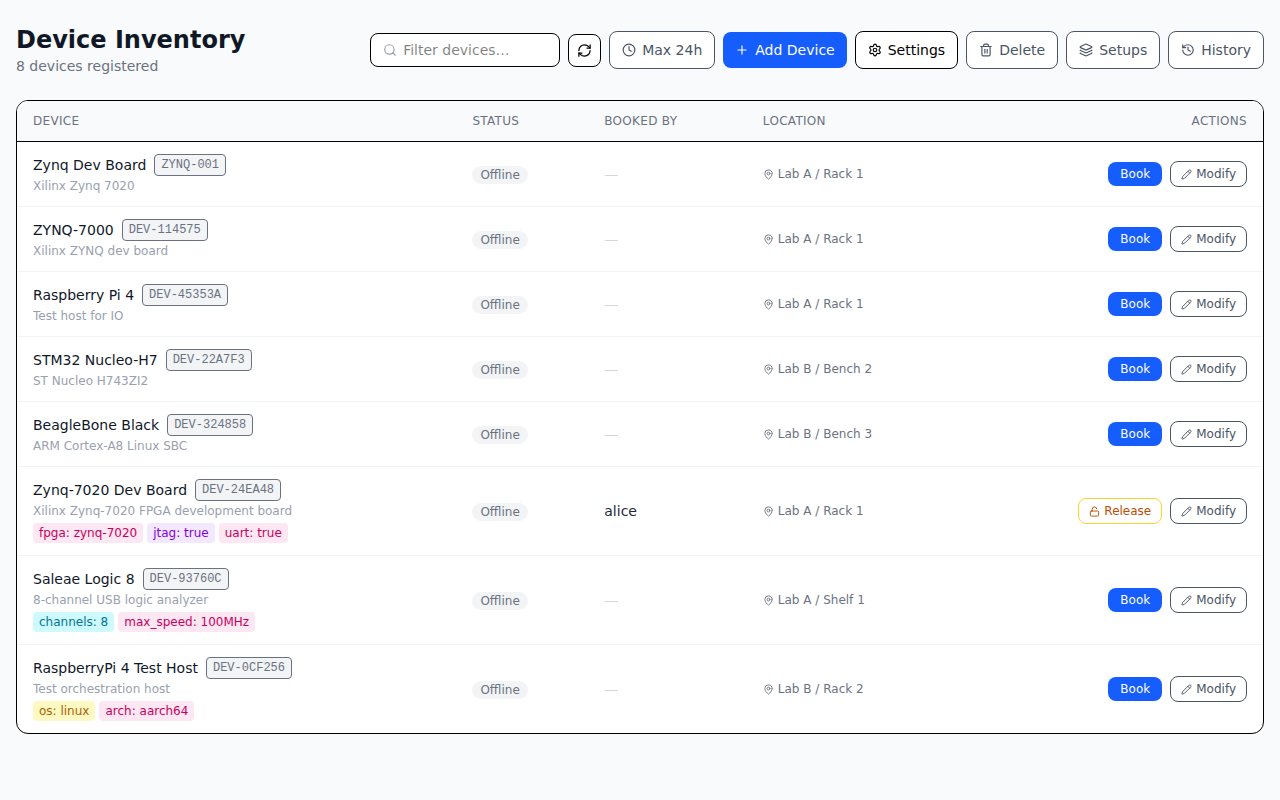
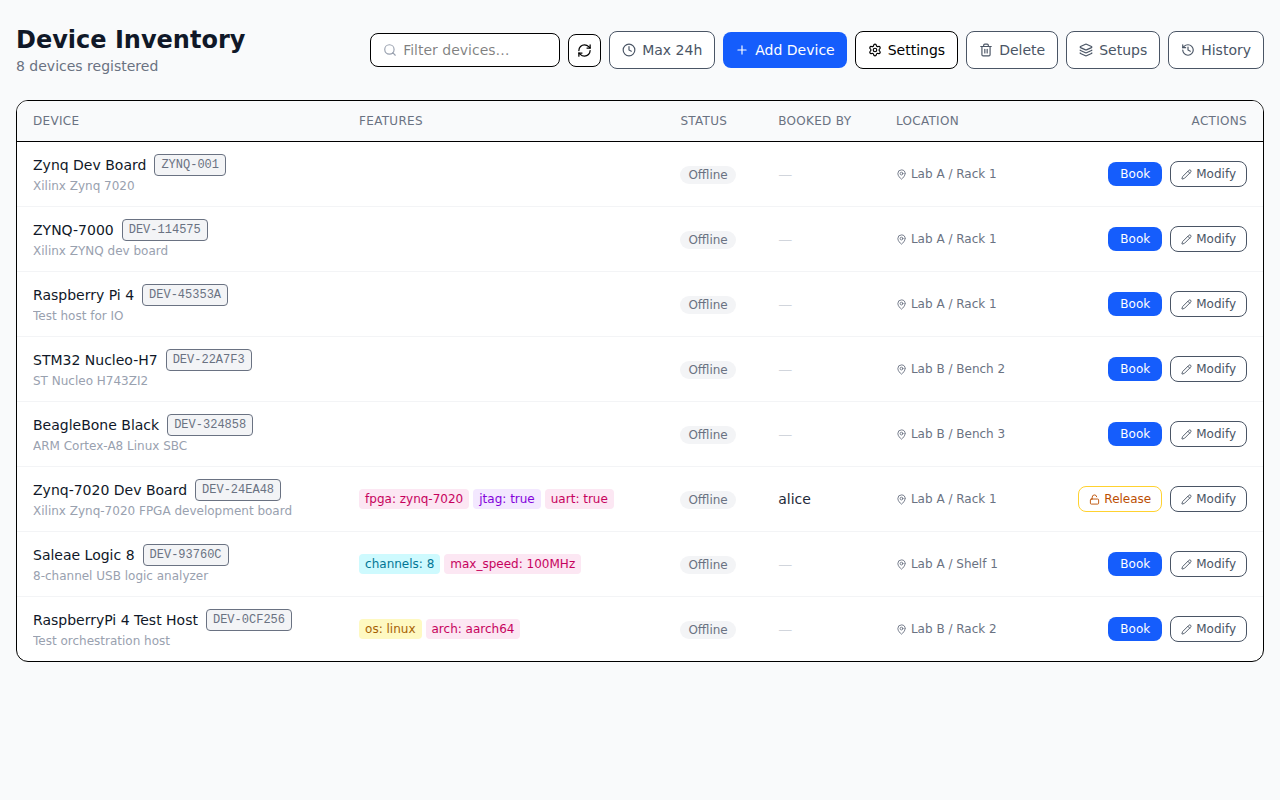
Move features to dedicated FEATURES column in inventory table
Features tags were inline under the device name. They now get their
own column between Device and Status, keeping each row clean and
making the feature tags immediately scannable across devices.

https://claude.ai/code/session_01GABJSn9qP5pQbQ7Q7k4QpR

diff --git a/frontend/src/pages/InventoryPage.tsx b/frontend/src/pages/InventoryPage.tsx
@@ -892,6 +892,7 @@ export default function InventoryPage() {
                 <tr>
                   {deleteMode && <th className="w-10 px-4 py-3"></th>}
                   <th className="text-left px-4 py-3 text-xs font-medium text-gray-500 uppercase tracking-wide">Device</th>
+                  <th className="text-left px-4 py-3 text-xs font-medium text-gray-500 uppercase tracking-wide">Features</th>
                   <th className="text-left px-4 py-3 text-xs font-medium text-gray-500 uppercase tracking-wide">Status</th>
                   <th className="text-left px-4 py-3 text-xs font-medium text-gray-500 uppercase tracking-wide">Booked by</th>
                   <th className="text-left px-4 py-3 text-xs font-medium text-gray-500 uppercase tracking-wide">Location</th>
@@ -923,15 +924,15 @@ export default function InventoryPage() {
                       {d.description && (
                         <p className="text-xs text-gray-400 mt-0.5 max-w-xs truncate">{d.description}</p>
                       )}
-                      {Object.keys(d.features).length > 0 && (
-                        <div className="flex flex-wrap gap-1 mt-1">
-                          {Object.entries(d.features).map(([k, v]) => (
-                            <span key={k} className={`px-1.5 py-0.5 text-xs rounded font-medium ${tagColor(k)}`}>
-                              {k}: {String(v)}
-                            </span>
-                          ))}
-                        </div>
-                      )}
+                    </td>
+                    <td className="px-4 py-3">
+                      <div className="flex flex-wrap gap-1">
+                        {Object.entries(d.features).map(([k, v]) => (
+                          <span key={k} className={`px-1.5 py-0.5 text-xs rounded font-medium ${tagColor(k)}`}>
+                            {k}: {String(v)}
+                          </span>
+                        ))}
+                      </div>
                     </td>
                     <td className="px-4 py-3">
                       <StatusBadge agentOnline={d.agent_online} activeBooking={!!d.active_booking} enabled={d.enabled} />
